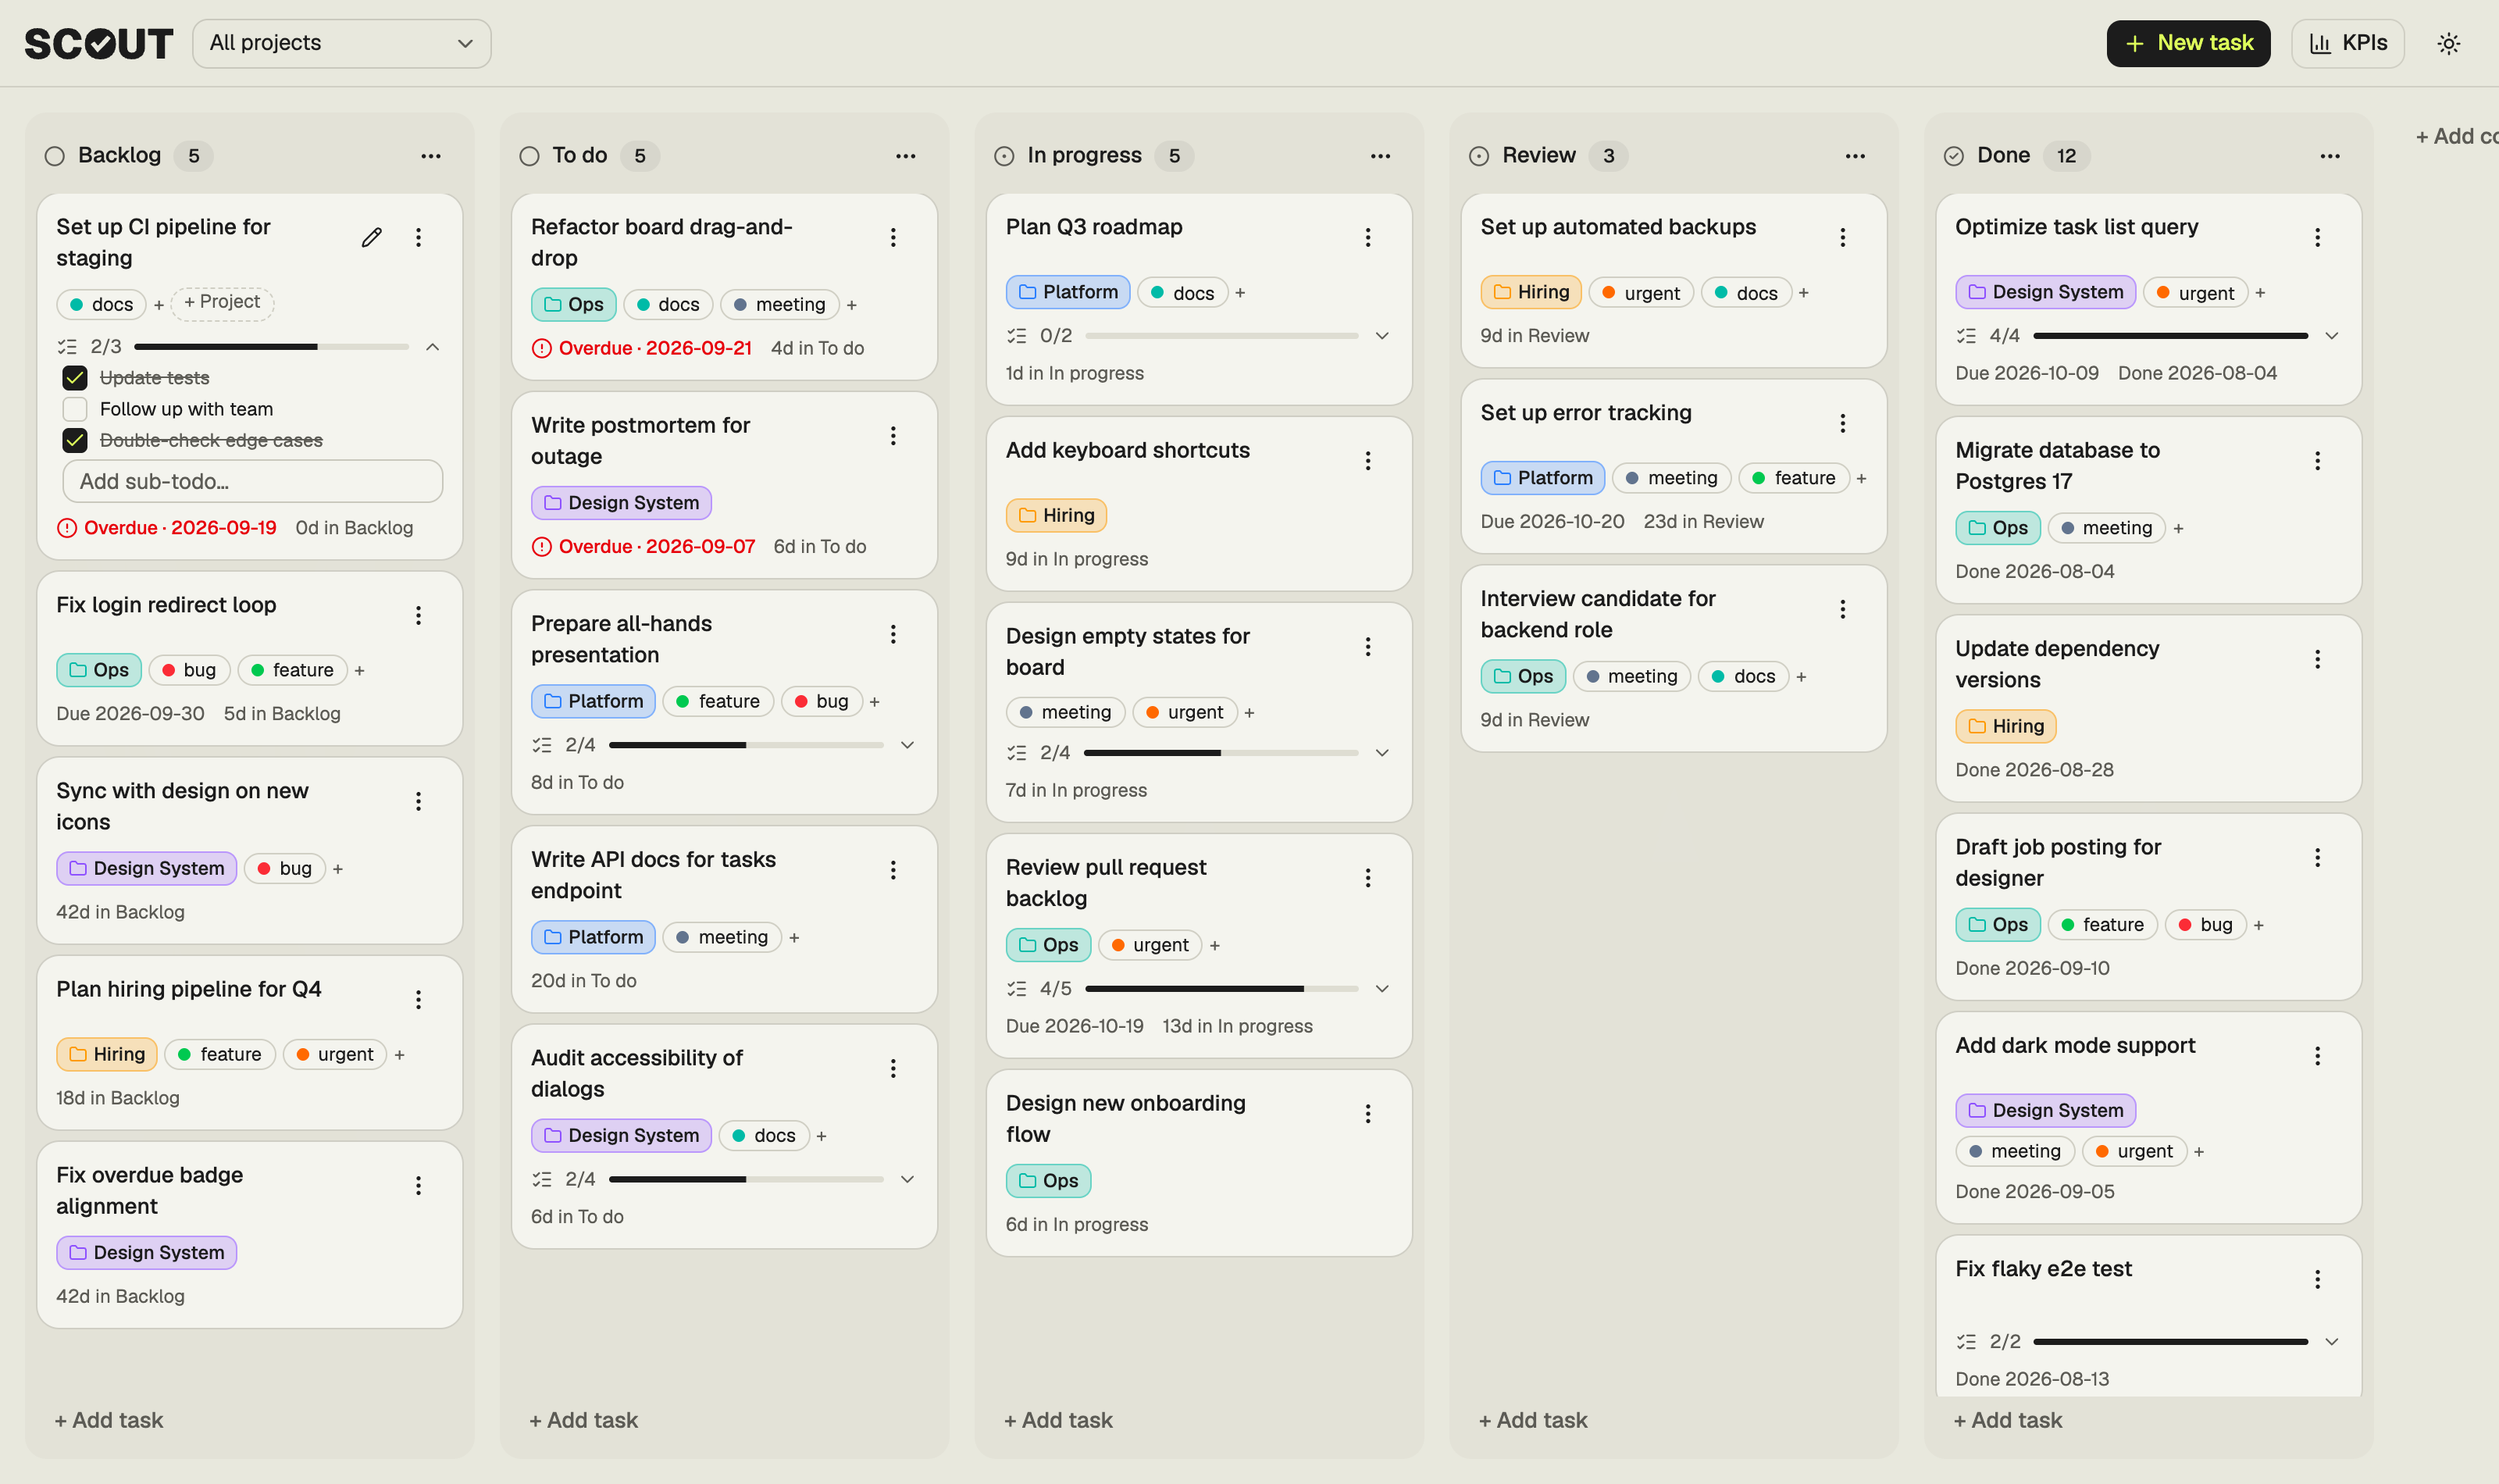
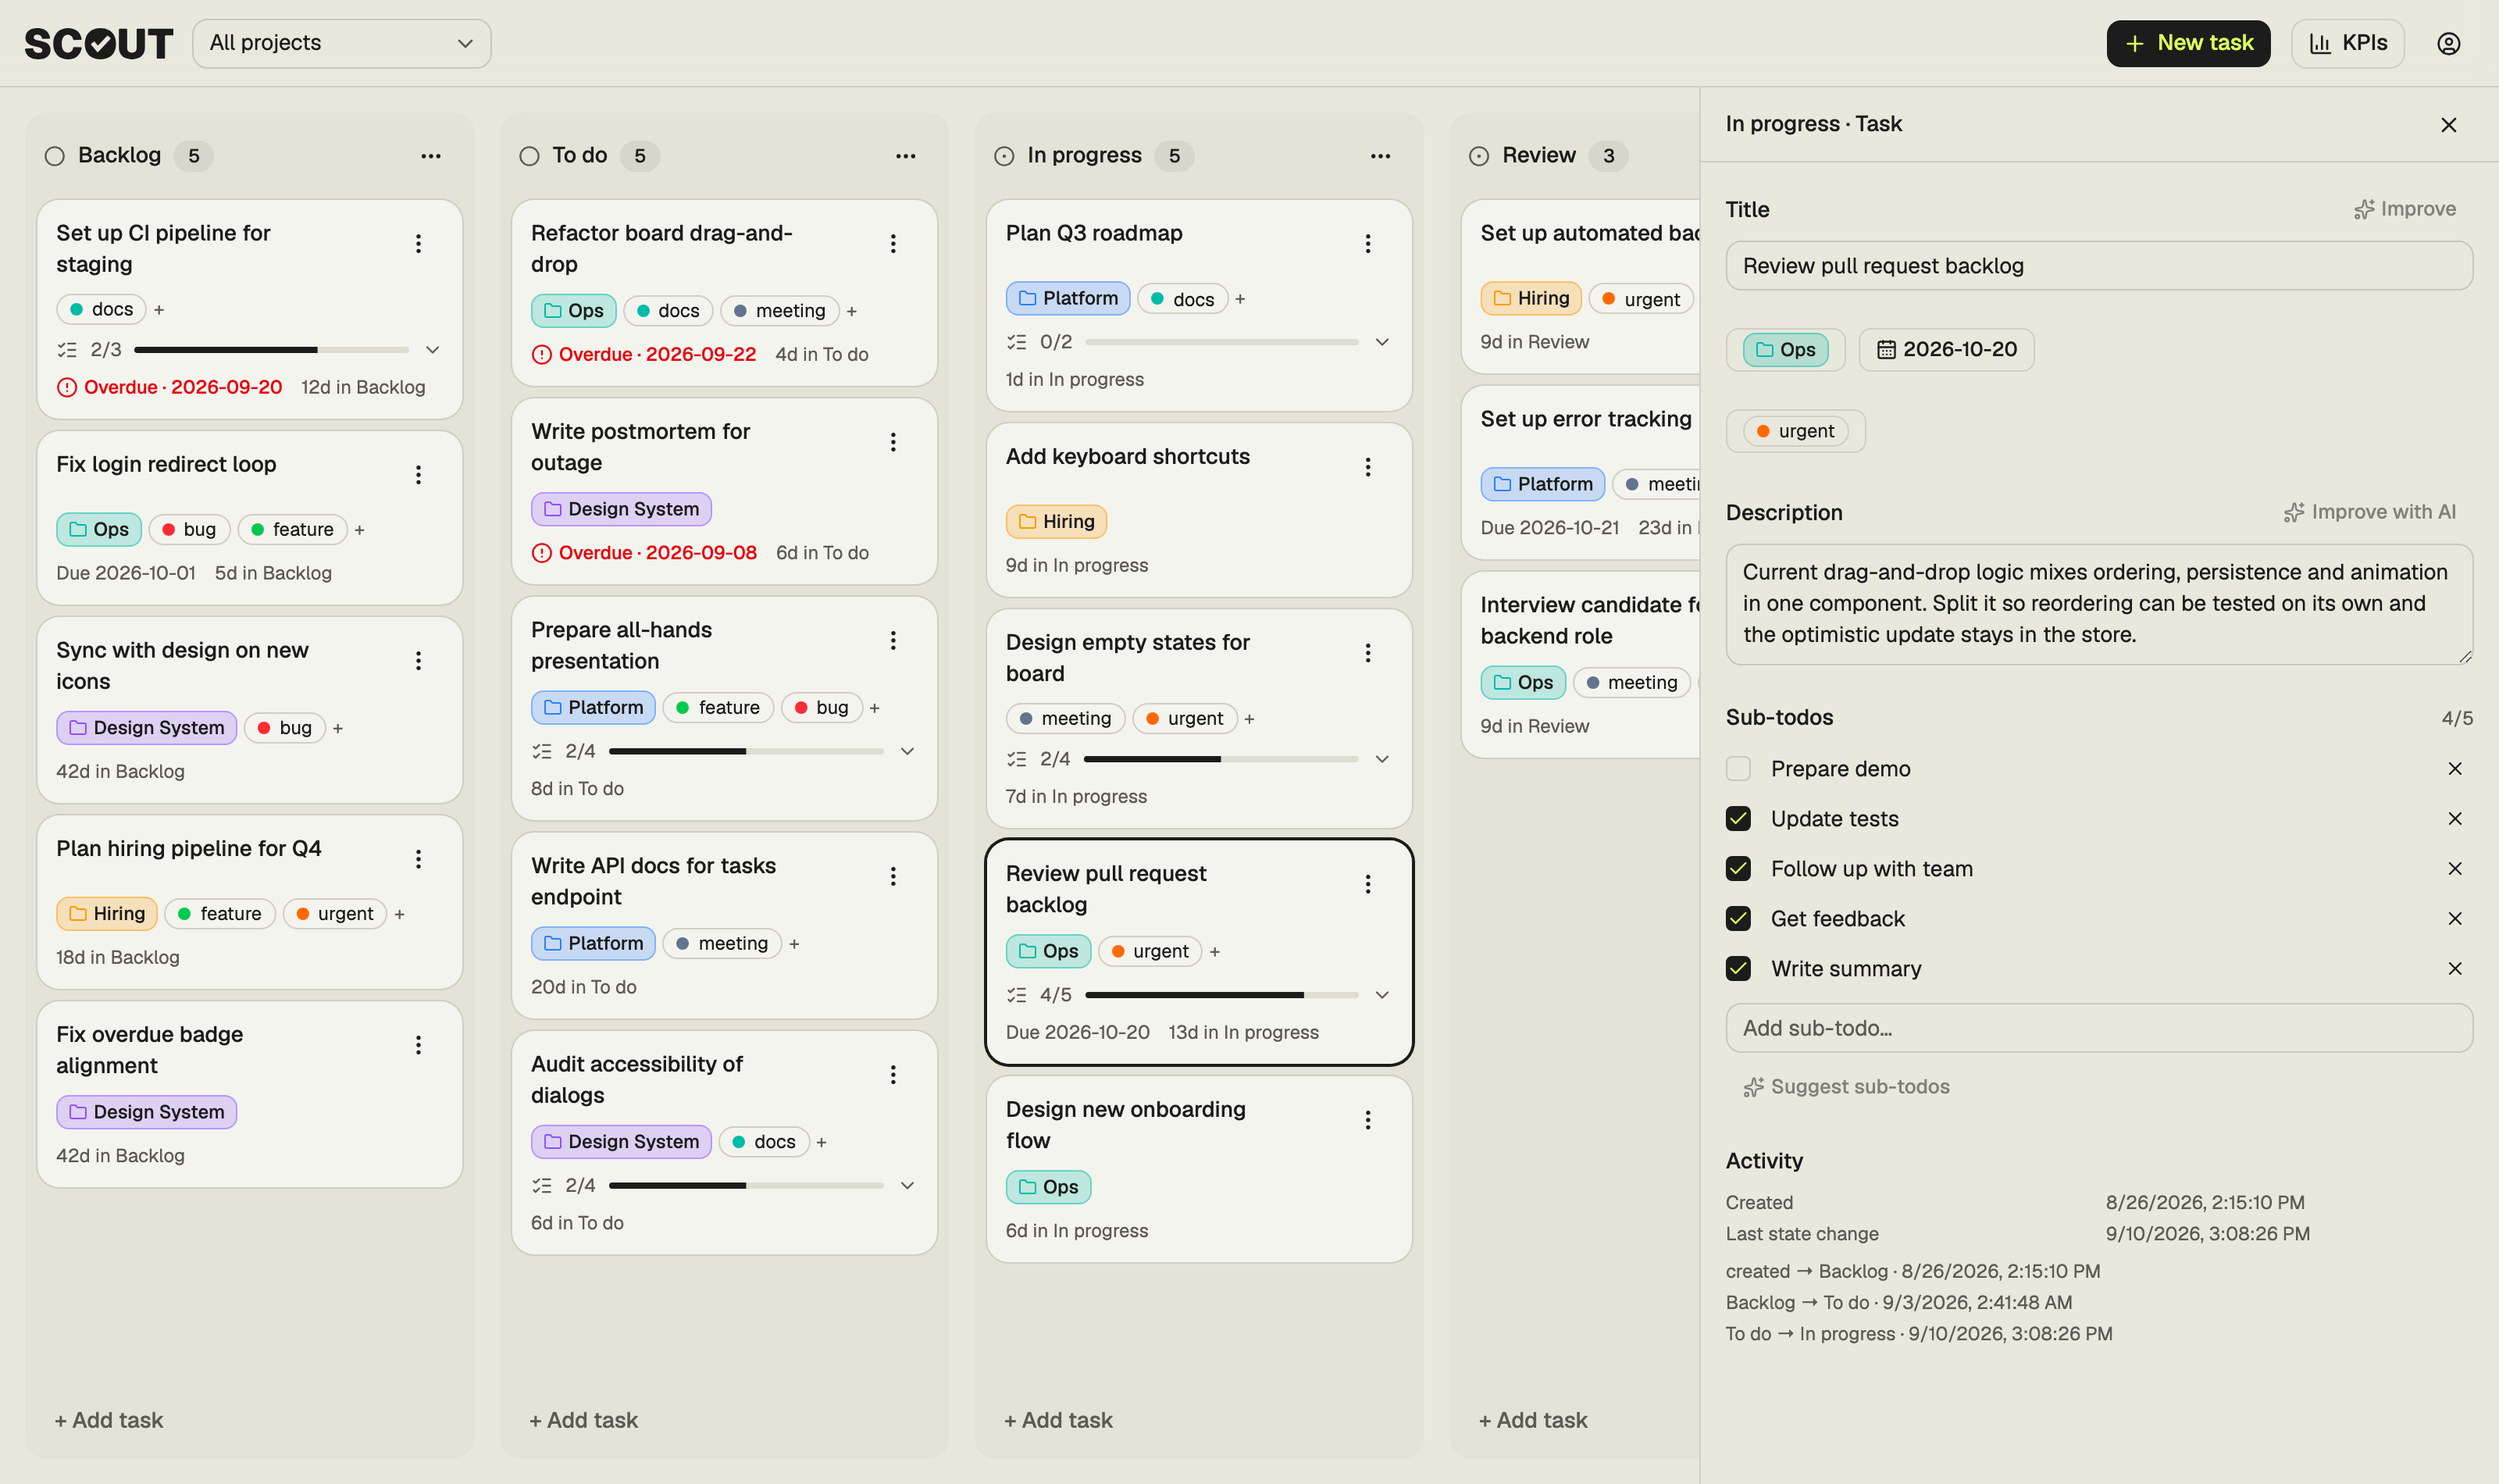
docs: refresh README screenshots; fix duplicate columns from db:seed
Screenshots now show the account-menu header and the task side panel.

Migrations already create the default columns for the owner account, and
the seed inserted a second set, so a fresh `db:migrate && db:seed` showed
every column twice. The seed now clears the owner's (task-free) columns,
tags and projects before inserting its own.

diff --git a/server/db/seed.ts b/server/db/seed.ts
@@ -136,10 +136,12 @@ async function main() {
 
   if (reset) {
     await db.delete(schema.tasks).where(eq(schema.tasks.userId, ownerId))
-    await db.delete(schema.boardColumns).where(eq(schema.boardColumns.userId, ownerId))
-    await db.delete(schema.tags).where(eq(schema.tags.userId, ownerId))
-    await db.delete(schema.projects).where(eq(schema.projects.userId, ownerId))
   }
+  // No tasks left at this point. Migrations already created default columns for the owner,
+  // so clear them (and any leftover projects/tags) instead of seeding a second set.
+  await db.delete(schema.boardColumns).where(eq(schema.boardColumns.userId, ownerId))
+  await db.delete(schema.tags).where(eq(schema.tags.userId, ownerId))
+  await db.delete(schema.projects).where(eq(schema.projects.userId, ownerId))
 
   const projectRows = await db.insert(schema.projects).values(PROJECTS.map(p => ({ ...p, userId: ownerId }))).returning()
   const tagRows = await db.insert(schema.tags).values(TAGS.map(t => ({ ...t, userId: ownerId }))).returning()
